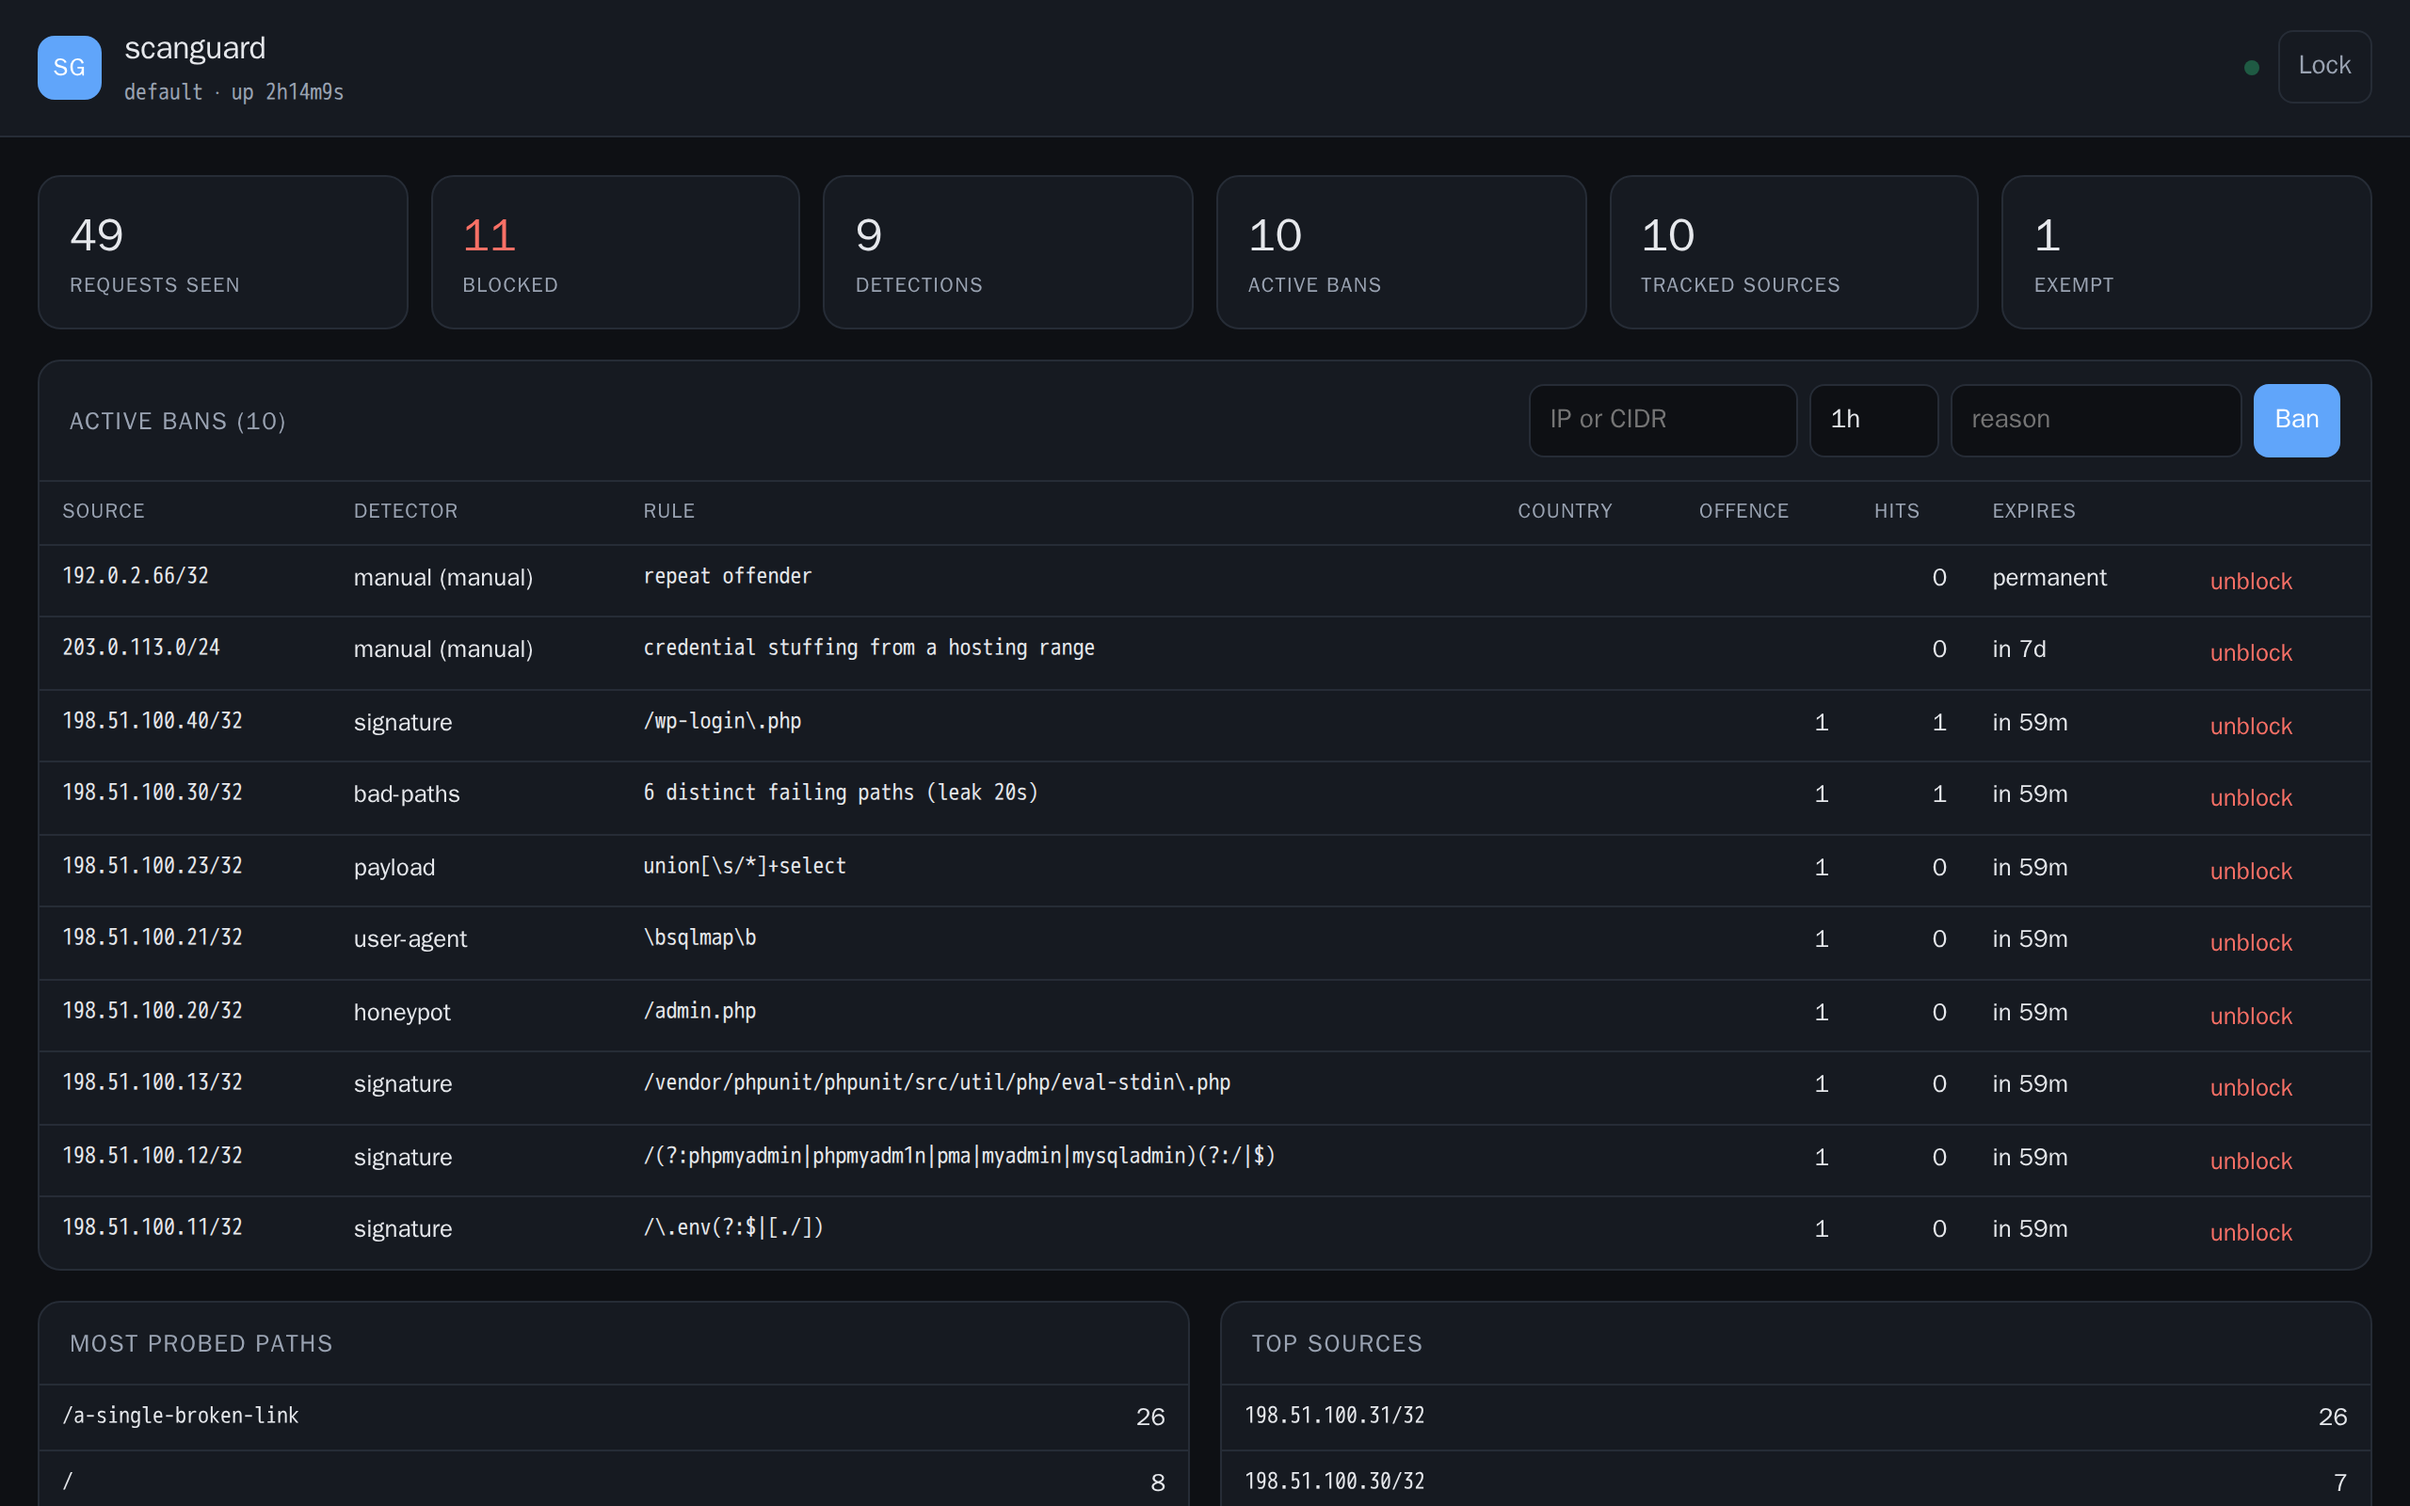
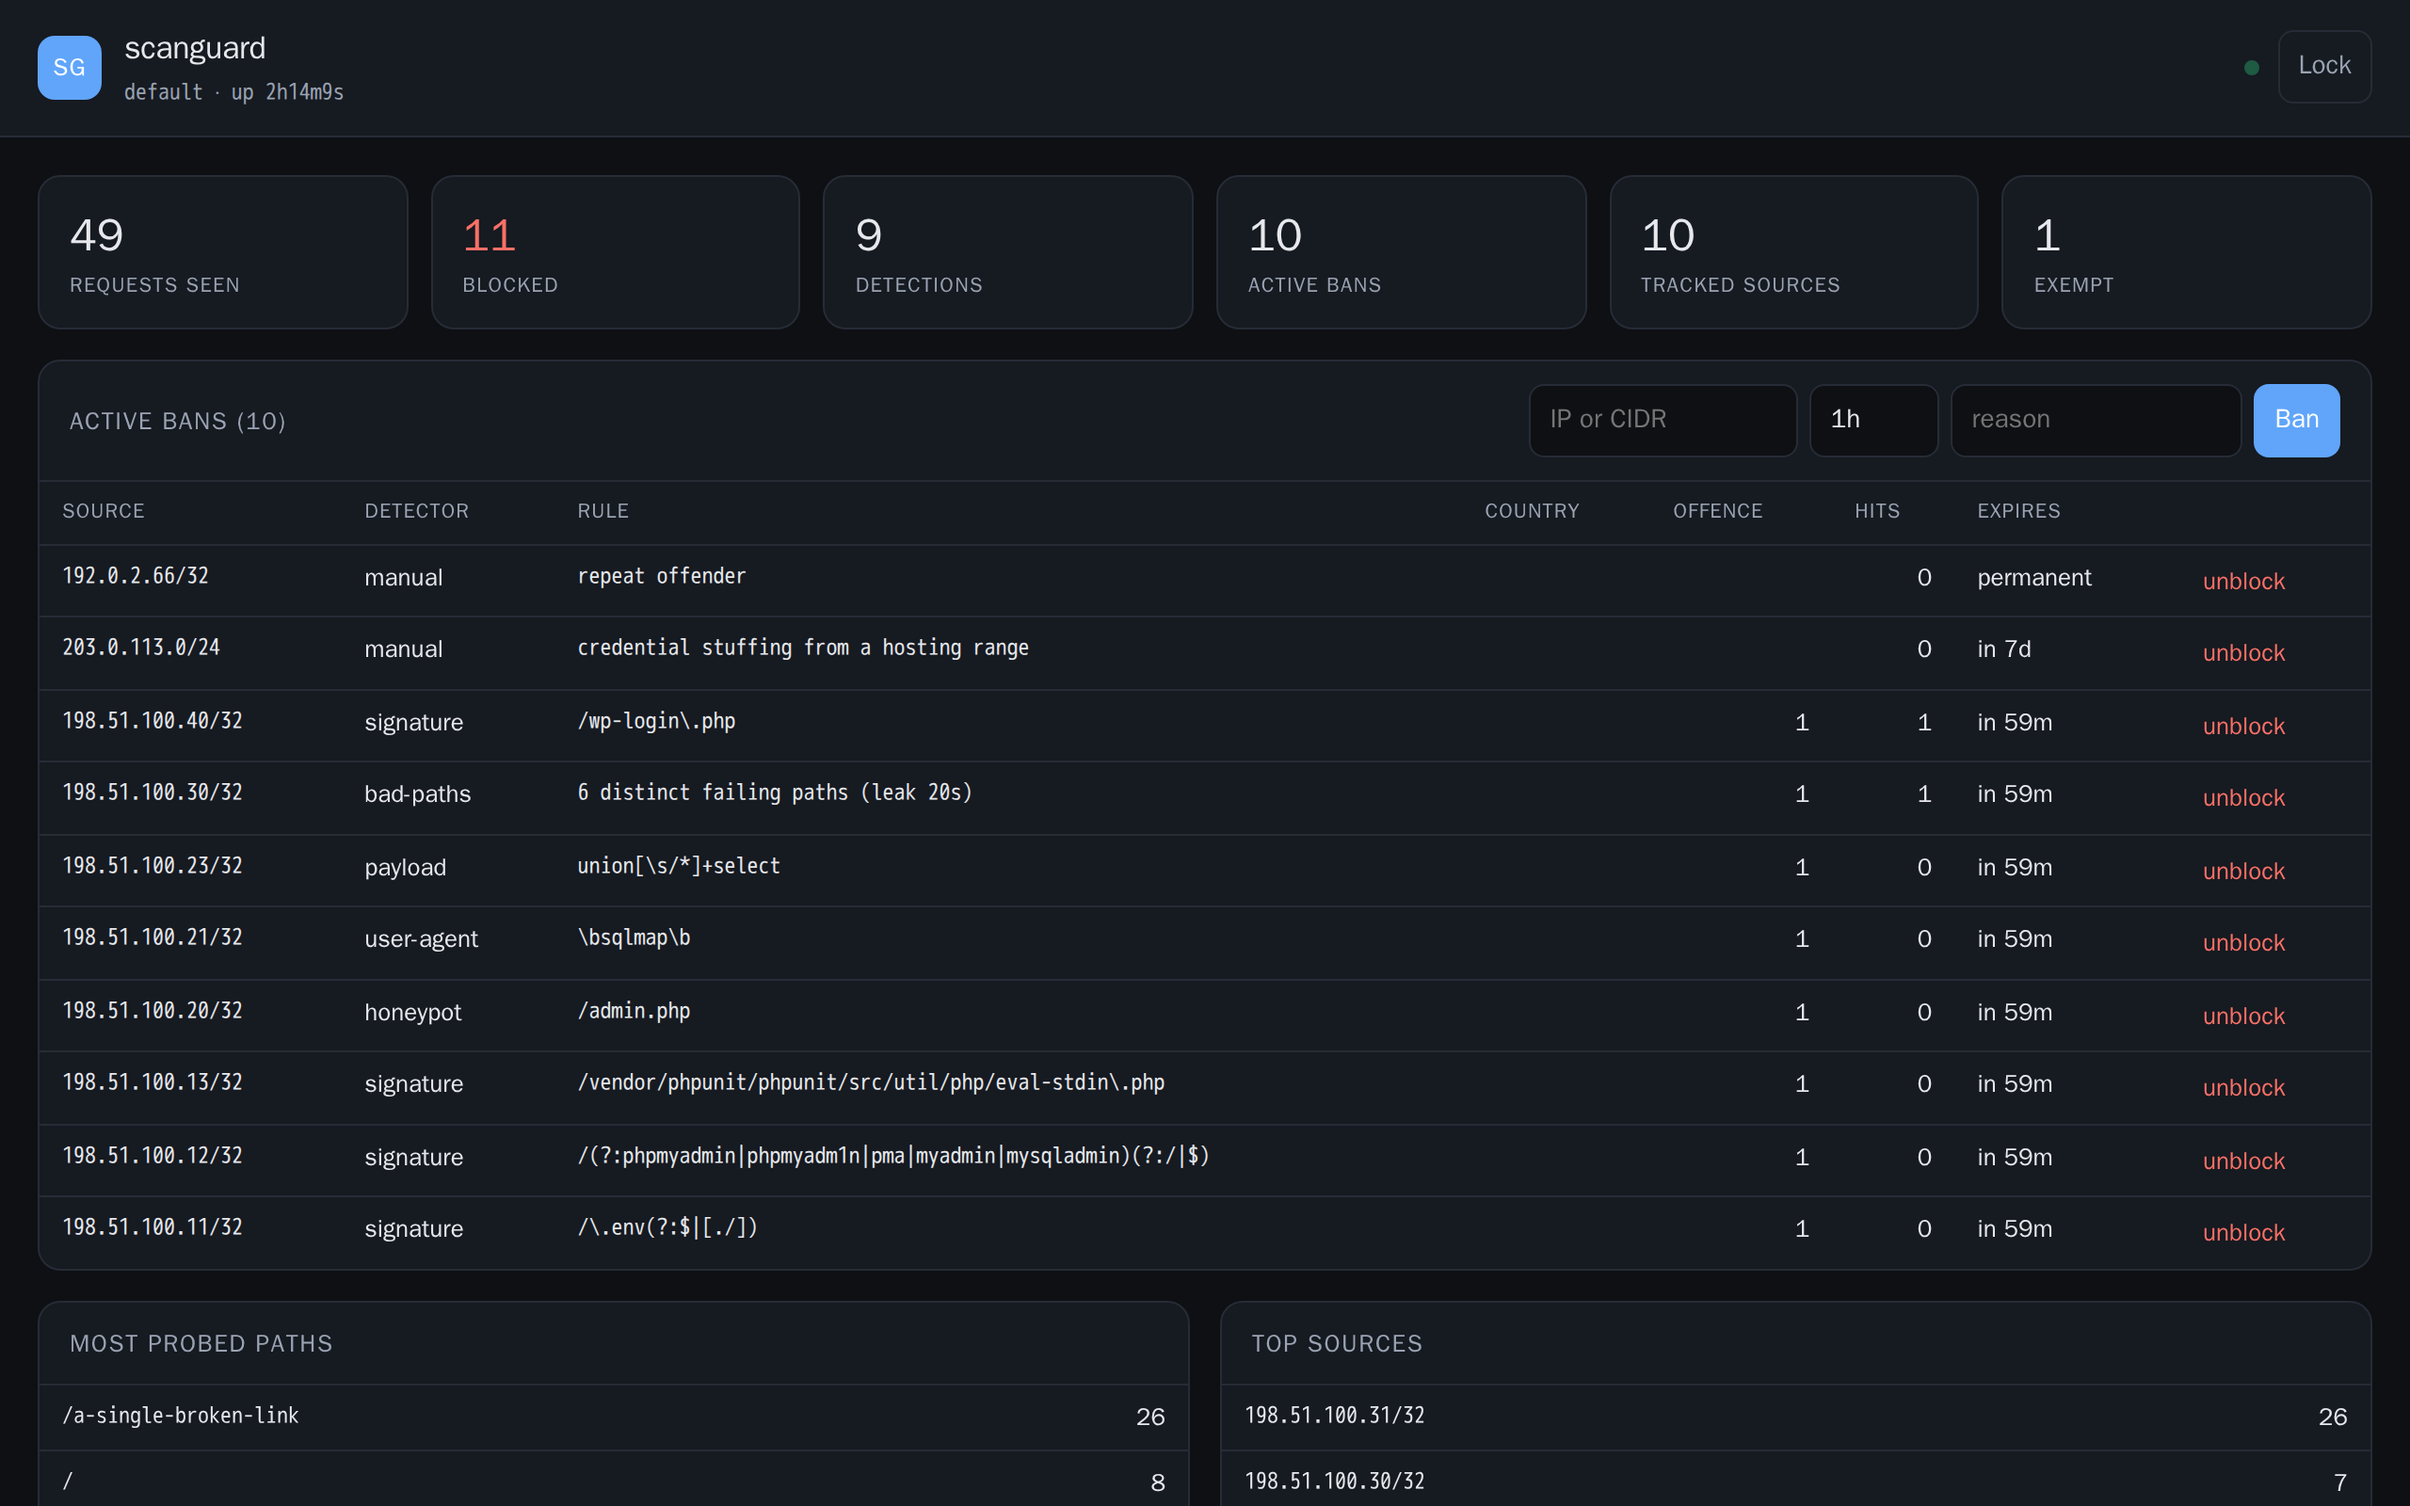
Show a manual ban's detector once, not as "manual (manual)"
A manual ban always has the detector "manual", so the "(manual)" suffix
only repeated it. The tour's overview tests check the cell; both overview
screenshots are regenerated.

diff --git a/e2e/docs/tour.spec.ts b/e2e/docs/tour.spec.ts
@@ -132,6 +132,9 @@ test.describe('with bans', () => {
     await open(page)
     await expect(page.locator('#bans tbody tr', { hasText: '203.0.113.0/24' })).toContainText('in 7d')
     await expect(page.locator('#bans tbody tr', { hasText: 'signature' }).first()).toBeVisible()
+    // A manual ban's detector is "manual", once (it used to read "manual
+    // (manual)"). Soft, so the phone test still reaches its own check.
+    await expect.soft(page.locator('#bans tbody tr', { hasText: '203.0.113.0/24' }).locator('td').nth(1)).toHaveText('manual')
   }
 
   test('overview', async ({ page }) => {

diff --git a/admin_ui.go b/admin_ui.go
@@ -706,7 +706,7 @@ function renderBans(bans, total) {
   bans.forEach(function (b) {
     var row = document.createElement("tr");
     cell(row, b.key, "mono");
-    cell(row, b.detector + (b.manual ? " (manual)" : ""));
+    cell(row, b.detector);
     cell(row, b.rule || b.reason || "", "mono wrap");
     cell(row, b.country || "");
     cell(row, b.offences || "", "num");
